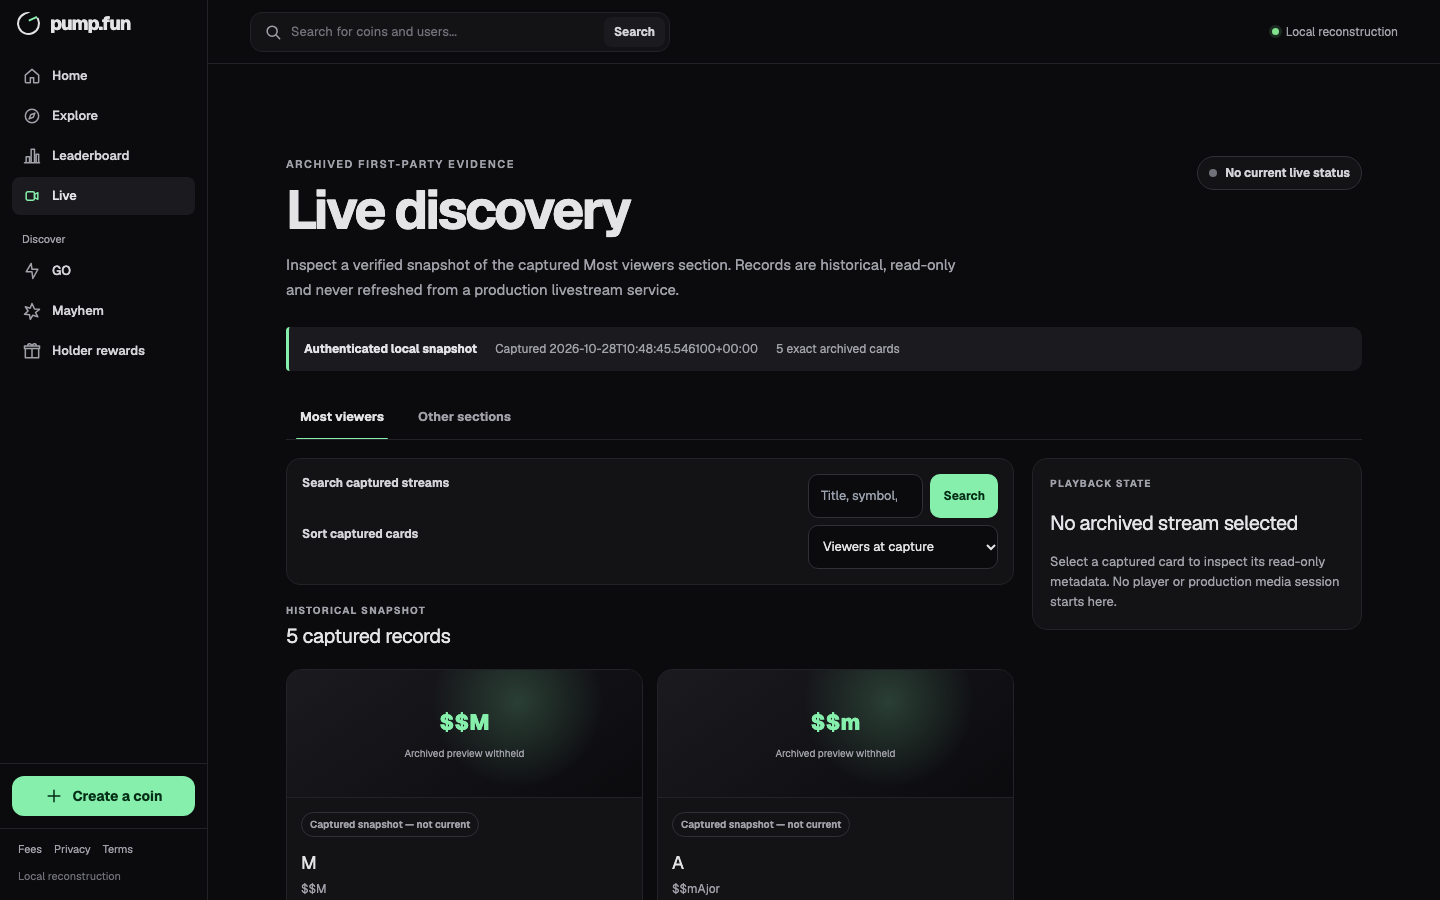
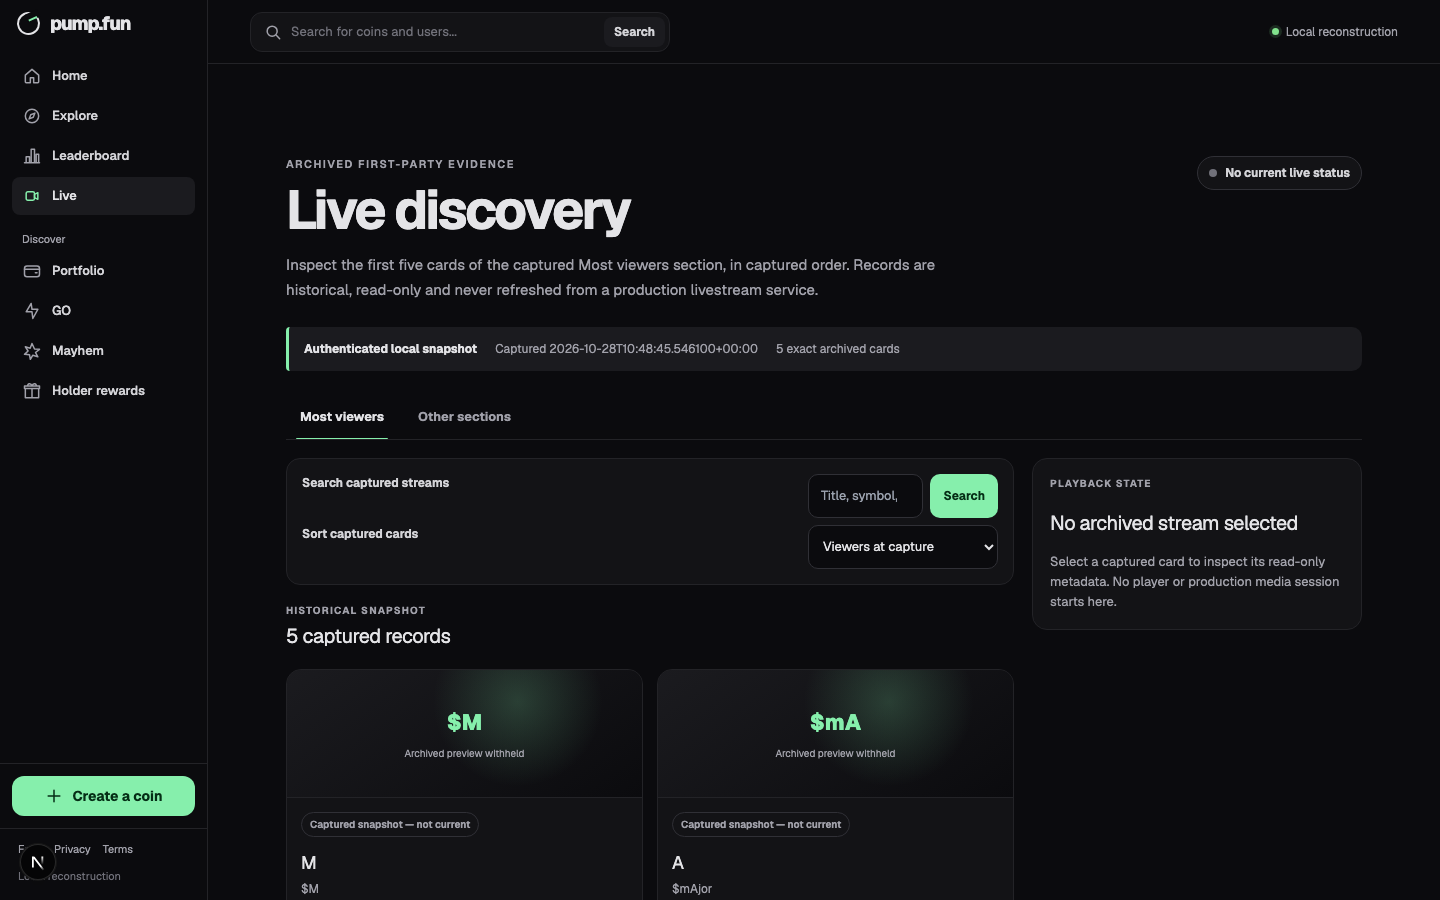
fix(app): decode React Flight escaping in archived /live records
Follow-up to #631. The /live adapter parsed the escaped Flight payload but
never undid React Flight string escaping, so every captured ticker rendered
with a doubled dollar sign ($$M, $$mAjor) although the captured page shows
$M and $mAjor; the tests asserted the doubled values.

- live-data.ts: after JSON decoding, "$$"-prefixed strings drop one "$";
  any other "$"-prefixed string is an unresolved Flight reference and fails
  closed.
- tests: expected values corrected; new tests check every rendered symbol and
  title against the capture's server-rendered text and reject Flight
  references (both fail on the previous decoder).
- Copy and LIVE-EVIDENCE.md: the five cards are the first five of the 42
  captured Most viewers cards in captured order, not the top five by viewers.
- Screenshots regenerated with tests/capture-live-visuals.mjs (which also
  waited for the doubled name).

App suite: python 73, node 38, live 7, all test:* scripts, backend 230,
evidence/progress checks, typecheck 3/3, build, Playwright 91 (live and shell
specs 17/17 twice).

diff --git a/app/packages/frontend/tests/live.spec.ts b/app/packages/frontend/tests/live.spec.ts
@@ -56,11 +56,11 @@ test("search and sorting are URL-backed, empty-safe and history-aware", async ({
   const search = page.getByRole("searchbox", {
     name: "Search captured streams",
   });
-  await search.fill("$$mAjor");
+  await search.fill("$mAjor");
   await search.press("Enter");
-  await expect(page).toHaveURL(/\/live\?q=%24%24mAjor$/);
+  await expect(page).toHaveURL(/\/live\?q=%24mAjor$/);
   await expect(page.getByTestId("archived-stream-card")).toHaveCount(1);
-  await expect(page.getByText("$$mAjor", { exact: true })).toBeVisible();
+  await expect(page.getByText("$mAjor", { exact: true })).toBeVisible();
 
   await page.getByRole("button", { name: "Clear", exact: true }).click();
   await expect(page).toHaveURL(/\/live$/);
@@ -68,16 +68,16 @@ test("search and sorting are URL-backed, empty-safe and history-aware", async ({
   await page.getByLabel("Sort captured cards").selectOption("title");
   await expect(page).toHaveURL(/sort=title/);
   await expect(page.getByTestId("archived-stream-card").first()).toContainText(
-    "$$mAjor",
+    "$mAjor",
   );
 
   await page.goBack();
   await expect(page).toHaveURL(/\/live$/);
   await expect(page.getByTestId("archived-stream-card").first()).toContainText(
-    "$$M",
+    "$M",
   );
   await page.goBack();
-  await expect(search).toHaveValue("$$mAjor");
+  await expect(search).toHaveValue("$mAjor");
   await expect(page.getByTestId("archived-stream-card")).toHaveCount(1);
   await page.goForward();
   await expect(page.getByTestId("archived-stream-card")).toHaveCount(5);
@@ -94,7 +94,7 @@ test("selection exposes only unavailable playback state and restores focus on Es
 }) => {
   await page.goto("/live");
   const inspect = page.getByRole("button", {
-    name: "Inspect archived stream M $$M",
+    name: "Inspect archived stream M $M",
   });
   await inspect.focus();
   await inspect.click();
@@ -191,7 +191,7 @@ test("interaction remains local and adjacent routes retain their boundaries", as
   const safety = monitorSafety(page);
   await page.goto("/live");
   await page
-    .getByRole("button", { name: "Inspect archived stream M $$M" })
+    .getByRole("button", { name: "Inspect archived stream M $M" })
     .click();
   await page.getByRole("button", { name: "Close stream detail" }).click();
   await page.getByRole("link", { name: "Explore", exact: true }).click();

diff --git a/app/tests/live_snapshot.test.ts b/app/tests/live_snapshot.test.ts
@@ -41,12 +41,36 @@ test("authenticates the exact captured Live HTML and extracts five bounded recor
     [42, 34, 26, 24, 20],
   );
   assert.equal(snapshot.streams[0]?.title, "M");
-  assert.equal(snapshot.streams[0]?.symbol, "$$M");
+  assert.equal(snapshot.streams[0]?.symbol, "$M");
   assert.equal(
     snapshot.streams[0]?.creatorAddress,
     "Aq7jiTAePZ1onBGDV6yUFNF6RnhYG8ALcwfdxBv7EGky",
   );
   assert.equal(snapshot.streams[0]?.wasLiveAtCapture, true);
+});
+
+test("rendered symbols and titles match the capture's server-rendered text", async () => {
+  const { bytes, manifestValue } = await realEvidence();
+  const html = new TextDecoder().decode(bytes);
+  for (const stream of verifyLiveEvidence(bytes, manifestValue).streams) {
+    assert.ok(!stream.symbol.startsWith("$$"), stream.symbol);
+    assert.ok(html.includes(`>${stream.symbol}<`), `symbol ${stream.symbol}`);
+    assert.ok(html.includes(`>${stream.title}<`), `title ${stream.title}`);
+  }
+});
+
+test("unresolved React Flight references fail closed", async () => {
+  const { bytes } = await realEvidence();
+  const source = new TextDecoder().decode(bytes);
+  const escaped = '\\"symbol\\":\\"$$M\\"';
+  assert.ok(source.includes(escaped));
+  const mutated = new TextEncoder().encode(
+    source.replace(escaped, '\\"symbol\\":\\"$@3\\"'),
+  );
+  assert.throws(
+    () => parseLiveCapture(mutated, sha256(mutated)),
+    /unresolved Flight reference/,
+  );
 });
 
 test("keeps external media fields out of the browser-facing data model", async () => {
@@ -111,7 +135,7 @@ test("rejects invalid stream identity, state, counts and unexpected fields", () 
 test("searches supported archived identity fields and sorts deterministically", async () => {
   const { bytes } = await realEvidence();
   const streams = parseLiveCapture(bytes);
-  assert.equal(filterArchivedStreams(streams, "$$major", "viewers").length, 1);
+  assert.equal(filterArchivedStreams(streams, "$major", "viewers").length, 1);
   assert.equal(
     filterArchivedStreams(streams, "EWa9rEDV", "viewers")[0]?.title,
     "A",

diff --git a/app/packages/frontend/src/app/live/live-data.ts b/app/packages/frontend/src/app/live/live-data.ts
@@ -100,8 +100,9 @@ function decodeEscapedObject(source: string, start: number): unknown {
     throw new LiveEvidenceError("Archived stream object boundary is invalid");
   }
 
+  let parsed: unknown;
   try {
-    return JSON.parse(
+    parsed = JSON.parse(
       source.slice(start, end).replaceAll('\\"', '"').replaceAll("\\\\", "\\"),
     );
   } catch (error) {
@@ -109,6 +110,26 @@ function decodeEscapedObject(source: string, start: number): unknown {
       `Archived stream object is invalid JSON: ${error instanceof Error ? error.message : "unknown parse failure"}`,
     );
   }
+  return unescapeFlightStrings(parsed);
+}
+
+// React Flight stores a string that starts with "$" as "$$"; any other
+// "$"-prefixed string is an unresolved Flight reference and is rejected.
+function unescapeFlightStrings(value: unknown): unknown {
+  if (typeof value === "string") {
+    if (value.startsWith("$$")) return value.slice(1);
+    if (value.startsWith("$")) {
+      throw new LiveEvidenceError("Archived stream contains an unresolved Flight reference");
+    }
+    return value;
+  }
+  if (Array.isArray(value)) return value.map(unescapeFlightStrings);
+  if (isRecord(value)) {
+    return Object.fromEntries(
+      Object.entries(value).map(([key, item]) => [key, unescapeFlightStrings(item)]),
+    );
+  }
+  return value;
 }
 
 export function validateArchivedStream(

diff --git a/app/packages/frontend/src/app/live/page.tsx b/app/packages/frontend/src/app/live/page.tsx
@@ -29,7 +29,8 @@ export default async function LivePage() {
           <p className="eyebrow">Archived first-party evidence</p>
           <h1 id="live-title">Live discovery</h1>
           <p className="description">
-            Inspect a verified snapshot of the captured Most viewers section.
+            Inspect the first five cards of the captured Most viewers section,
+            in captured order.
             Records are historical, read-only and never refreshed from a
             production livestream service.
           </p>

diff --git a/app/packages/frontend/LIVE-EVIDENCE.md b/app/packages/frontend/LIVE-EVIDENCE.md
@@ -20,8 +20,10 @@ the reconstruction.
 | Manifest               | `evidence/web/manifest.json`                                       |
 
 The adapter requires the manifest URL, final URL, status, object path, byte
-count and hash to match before parsing. It then extracts five exact archived
-card objects from the captured `Most viewers` payload and validates their
+count and hash to match before parsing. It then extracts the first five of the 42
+card objects in the captured `Most viewers` payload, in captured order (not the five
+highest viewer counts), undoes React Flight string escaping (`$$` → `$`; any other
+`$`-prefixed value fails closed) and validates their
 identity, creator address, symbol, title, historical viewer count and captured
 `isLive` flag. Playlist and thumbnail fields are deliberately discarded before
 data crosses the Server/Client Component boundary.
@@ -71,8 +73,9 @@ Hashes identify recovered factory text, not original source files.
 
 - Viewer numbers are interpreted only as values at capture time because the
   response and page were captured together.
-- The `Most viewers` ordering is retained for the default local order. No
-  ranking formula beyond the captured numeric order is inferred.
+- The captured array order of these five cards is retained for the default
+  local order. The captured section is not strictly ordered by viewer count (a
+  later card reports 40 viewers), so no ranking formula is inferred.
 
 ## LOCAL DESIGN
 
